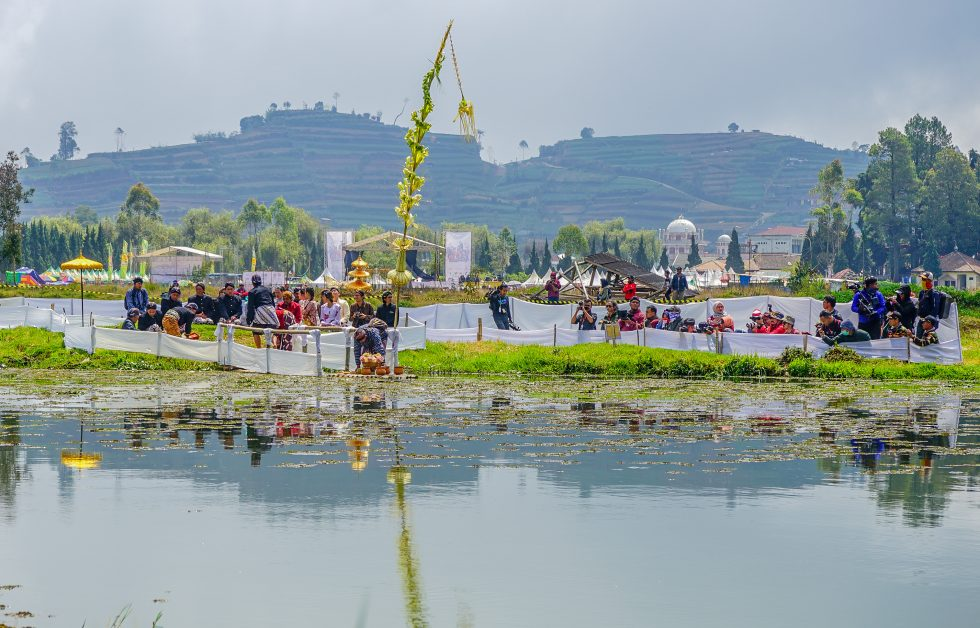
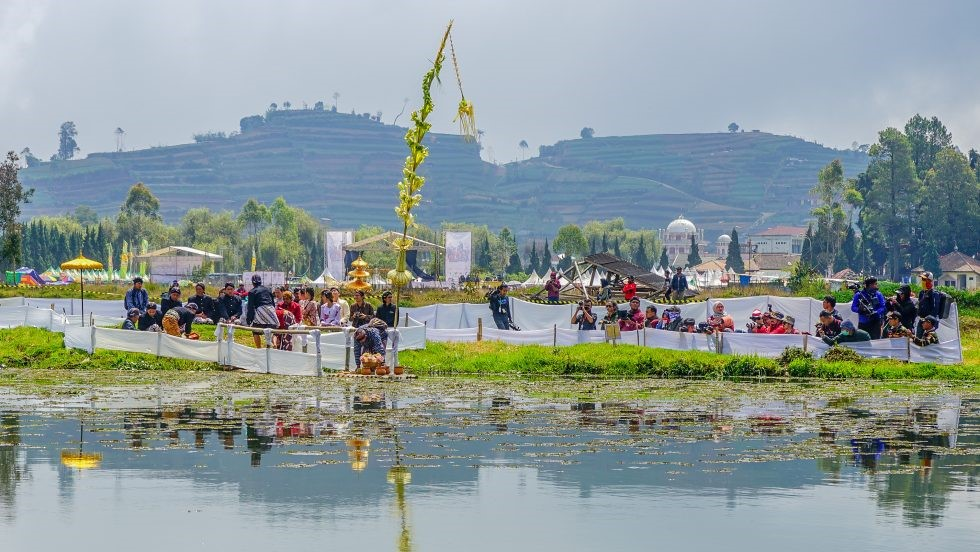
perbaikan 2

diff --git a/src/components/userComponents/homeComponents/BannerCarrousel.jsx b/src/components/userComponents/homeComponents/BannerCarrousel.jsx
@@ -3,7 +3,7 @@ import { Carousel } from 'react-responsive-carousel';
 import 'react-responsive-carousel/lib/styles/carousel.min.css';
 import { useNavigate } from 'react-router-dom';
 import Banner1 from '../../../assets/banner/1.jpg';
-import Banner2 from '../../../assets/banner/2.png';
+import Banner2 from '../../../assets/banner/2.jpg';
 import Banner3 from '../../../assets/banner/3.png';
 import Banner4 from '../../../assets/banner/4.png';
 import Banner5 from '../../../assets/banner/5.png';
